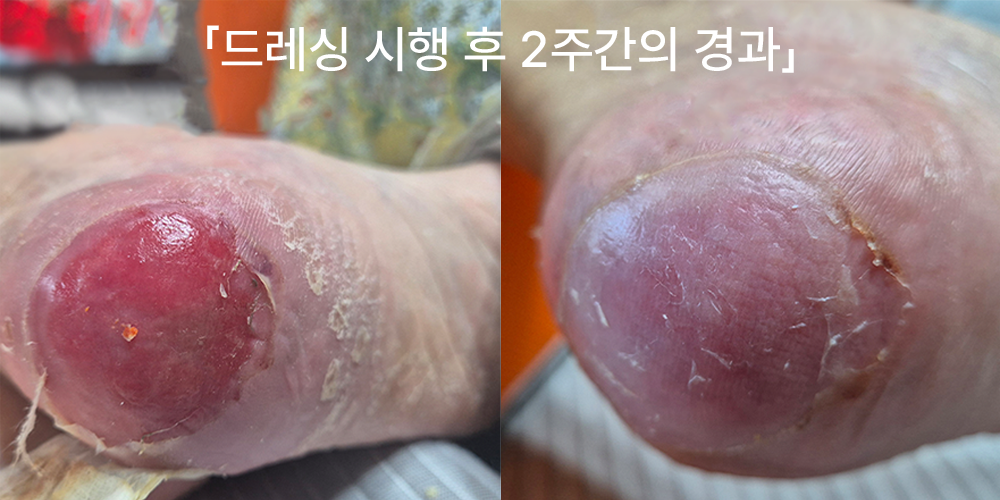
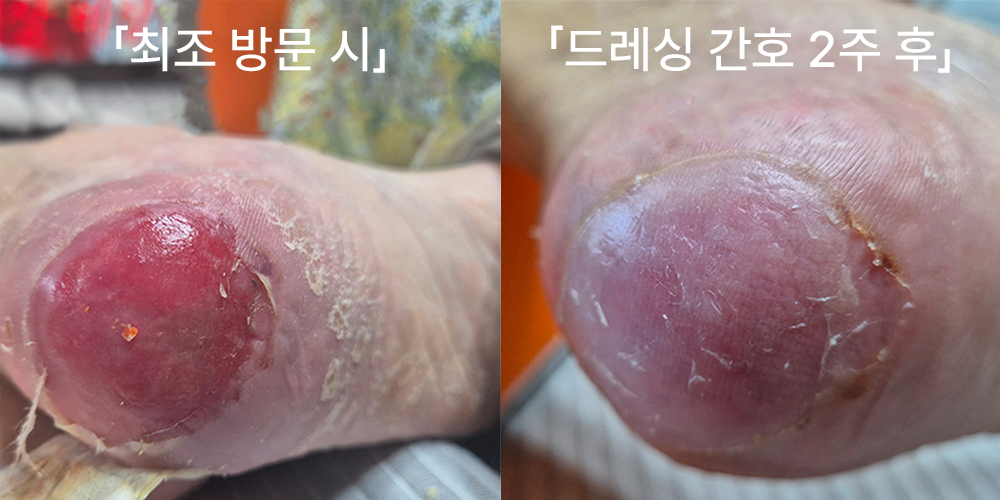
Revise copy across about/case/guide/index/service for tone and accuracy
Softens overclaiming phrases like "전문 간호사" and "단계별 전문" to
wording consistent with 방문간호지시서 기반 서비스 (e.g. "상태에 따른",
"지시서에 따른"), and aligns 환자→어르신/보호자 terminology. Also
updates the two 간호사례 photos (c1.png, c1-1.png).

Changed region(s): [[0.093, 0.03, 0.961, 0.15]]

diff --git a/service.html b/service.html
@@ -83,7 +83,7 @@
               <div class="stage-circle stage-2">
                 <h4>2단계</h4>
               </div>
-              <p>피부 표층 손상 또는 수포가 생긴 상태. 습윤 환경 유지 드레싱으로 상처 관리를 보조합니다.</p>
+              <p>피부 표층 손상 또는 수포가 생긴 상태. 습윤 환경을 유지하는 드레싱으로 상처를 관리합니다.</p>
               <ul class="stage-care-list">
                 <li>습윤 드레싱 교환</li>
                 <li>상처 세척 및 관찰</li>
@@ -173,7 +173,7 @@
           <div class="rehab-head reveal">
             <span class="svc-detail-tag">재활간호</span>
             <h2>가정에서 이어가는 재활 관리</h2>
-            <p>입원 치료 후 가정으로 돌아온 어르신의 재활 과정을 간호사가 지속적으로 보조합니다. 관절 구축 예방과 신체 기능 유지를 위한 체계적인 프로그램을 제공합니다.</p>
+            <p>입원 치료 후 가정으로 돌아온 어르신의 재활 과정을 간호사가 지속적으로 살피고 필요한 재활간호를 제공합니다. 관절 구축 예방과 신체 기능 유지를 위한 체계적인 프로그램을 제공합니다.</p>
           </div>
           <div class="rehab-checklist reveal">
             <h3>재활간호 서비스 항목</h3>
@@ -181,7 +181,7 @@
               <ul class="checklist">
                 <li>
                   <svg width="18" height="18" viewBox="0 0 24 24" fill="none" stroke="currentColor" stroke-width="2.5" stroke-linecap="round" stroke-linejoin="round" aria-hidden="true"><polyline points="20 6 9 17 4 12"/></svg>
-                  수동적·능동적 관절 운동 보조
+                  수동적·능동적 관절 운동
                 </li>
                 <li>
                   <svg width="18" height="18" viewBox="0 0 24 24" fill="none" stroke="currentColor" stroke-width="2.5" stroke-linecap="round" stroke-linejoin="round" aria-hidden="true"><polyline points="20 6 9 17 4 12"/></svg>
@@ -189,7 +189,7 @@
                 </li>
                 <li>
                   <svg width="18" height="18" viewBox="0 0 24 24" fill="none" stroke="currentColor" stroke-width="2.5" stroke-linecap="round" stroke-linejoin="round" aria-hidden="true"><polyline points="20 6 9 17 4 12"/></svg>
-                  보행 훈련 보조
+                  보행 상태 확인 및 훈련
                 </li>
                 <li>
                   <svg width="18" height="18" viewBox="0 0 24 24" fill="none" stroke="currentColor" stroke-width="2.5" stroke-linecap="round" stroke-linejoin="round" aria-hidden="true"><polyline points="20 6 9 17 4 12"/></svg>
@@ -203,7 +203,7 @@
                 </li>
                 <li>
                   <svg width="18" height="18" viewBox="0 0 24 24" fill="none" stroke="currentColor" stroke-width="2.5" stroke-linecap="round" stroke-linejoin="round" aria-hidden="true"><polyline points="20 6 9 17 4 12"/></svg>
-                  일상생활 동작 훈련 보조
+                  일상생활 동작 유지·훈련
                 </li>
                 <li>
                   <svg width="18" height="18" viewBox="0 0 24 24" fill="none" stroke="currentColor" stroke-width="2.5" stroke-linecap="round" stroke-linejoin="round" aria-hidden="true"><polyline points="20 6 9 17 4 12"/></svg>
@@ -235,11 +235,11 @@
           <div class="tube-care-text reveal">
             <span class="svc-detail-tag">튜브 관리</span>
             <h2>감염과 불편함을 줄이는 안전한 튜브 관리를 제공합니다</h2>
-            <p>경관영양튜브, 도뇨관, 기관절개관 등 각종 튜브의 상태를 꼼꼼히 점검하고 필요 시 소독과 교환을 보조합니다. 보호자가 일상에서 안정적으로 관리할 수 있도록 교육과 설명도 함께 제공합니다.</p>
+            <p>경관영양튜브, 도뇨관, 기관절개관 등 각종 튜브의 상태를 꼼꼼히 점검하고 방문간호지시서에 따라 필요한 소독과 관리를 시행합니다. 보호자가 일상에서 안정적으로 관리할 수 있도록 교육과 설명도 함께 제공합니다.</p>
             <ul class="tube-care-list">
               <li>튜브 고정 상태 및 누수 확인</li>
               <li>피부 상태 및 감염 징후 점검</li>
-              <li>튜브 세척·교환 보조</li>
+              <li>지시서에 따른 튜브 관리</li>
               <li>보호자 대상 일상 관리 교육</li>
             </ul>
             <p class="tube-care-notice"><em>모든 처치는 간호사가 수급자에게 발행된 의사의 방문간호지시서에 따라 이루어집니다</em></p>
@@ -255,7 +255,7 @@
             </article>
             <article class="tube-card reveal">
               <h3>기관절개관</h3>
-              <p>기도 확보 상태를 확인하고 분비물 관리와 피부 보전을 보조합니다.</p>
+              <p>기도 확보 상태를 확인하고 분비물과 주변 피부 상태를 관찰하고 필요한 관리를 시행합니다.</p>
             </article>
           </div>
           <div class="tube-care-guide-row reveal">

diff --git a/guide.html b/guide.html
@@ -90,7 +90,7 @@
           <div class="guide-detail-head reveal">
             <span class="guide-detail-eyebrow">방문간호란?</span>
             <h2 class="guide-detail-title">숙련된 간호사가 직접 찾아가는 방문간호</h2>
-            <p class="guide-detail-intro">간호사가 가정을 방문하여 지속적인 건강관리와 필요한 간호를 제공합니다. 의사의 방문간호지시서에 따라 전문 간호사가 가정을 방문해 필요한 간호와 건강관리 서비스를 제공합니다.</p>
+            <p class="guide-detail-intro">간호사가 가정을 방문하여 지속적인 건강관리와 필요한 간호를 제공합니다. 의사의 방문간호지시서에 따라 간호사가 가정을 방문해 필요한 간호와 건강관리 서비스를 제공합니다.</p>
           </div>
         </div>
       </div>
@@ -98,7 +98,7 @@
       <div class="guide-block bg-tint">
         <div class="container-wide">
           <span class="guide-section-eyebrow">Home Nursing</span>
-          <h3 class="guide-section-title reveal">가정에서 받는 전문 간호 서비스</h3>
+          <h3 class="guide-section-title reveal">가정에서 받는 방문간호 서비스</h3>
           <div class="guide-nursing-list" data-reveal-group>
             <div class="guide-nursing-item reveal">
               <span class="guide-nursing-num">01</span>
@@ -106,7 +106,7 @@
             </div>
             <div class="guide-nursing-item reveal">
               <span class="guide-nursing-num">02</span>
-              <div><h4>전문 간호 처치</h4><p>욕창·상처 드레싱과 투약 관리 등 지시서에 따른 간호 처치를 제공합니다.</p></div>
+              <div><h4>방문간호지시서에 따른 간호</h4><p>욕창·상처 드레싱과 투약 관리 등 지시서에 따른 간호 처치를 제공합니다.</p></div>
             </div>
             <div class="guide-nursing-item reveal">
               <span class="guide-nursing-num">03</span>
@@ -230,15 +230,15 @@
                 <div class="guide-target-group-items">
                   <div class="guide-target-group-item">
                     <h4>욕창·상처 등 지속적 드레싱이 필요하신 분</h4>
-                    <p>단계별 전문 상처 관리 서비스 제공</p>
+                    <p>상태에 따른 상처 관리 및 드레싱 제공</p>
                   </div>
                   <div class="guide-target-group-item">
                     <h4>당뇨·고혈압 등 만성질환 관리가 필요하신 분</h4>
-                    <p>정기적 활력징후 관찰과 관리 보조</p>
+                    <p>정기적인 활력징후 확인과 건강 상태 관찰</p>
                   </div>
                   <div class="guide-target-group-item">
                     <h4>경관영양튜브·도뇨관 등 튜브 관리가 필요하신 분</h4>
-                    <p>전문 간호사의 안전한 튜브 관리</p>
+                    <p>방문간호지시서에 따른 튜브 상태 확인 및 관리</p>
                   </div>
                 </div>
               </section>

diff --git a/about.html b/about.html
@@ -25,7 +25,7 @@
       <div class="page-header-content">
         <h1>센터소개</h1>
         <p class="page-header-desc">
-          <strong>백세인생 방문간호센터의 운영 방향과 전문적인 관리 체계를 소개합니다.</strong>
+          <strong>백세인생 방문간호센터의 운영 방향과 체계적인 건강관리 시스템을 소개합니다.</strong>
           <span>센터가 추구하는 방문간호의 가치와 서비스 운영 기준, 체계적인 건강관리 방향을 확인하실 수 있습니다.</span>
         </p>
       </div>
@@ -107,7 +107,7 @@
         <div class="compare-wrap reveal">
           <p class="section-tag">서비스 비교</p>
           <h2>방문간호와 방문요양의 차이</h2>
-          <p class="section-sub">방문간호는 전문 간호사가 직접 방문하여 건강 상태를 관찰하고 전문적인 간호를 제공합니다.</p>
+          <p class="section-sub">방문간호는 간호사가 직접 가정을 방문하여 건강 상태를 관찰하고 필요한 간호를 제공합니다.</p>
           <div class="compare-table-wrap">
             <table class="compare-table" aria-label="방문요양 vs 방문간호 비교표">
               <colgroup>
@@ -137,7 +137,7 @@
                 </tr>
                 <tr>
                   <th scope="row">상처·욕창 관리</th>
-                  <td class="highlight">단계별 전문 드레싱 관리</td>
+                  <td class="highlight">상태에 따른 드레싱 관리</td>
                   <td>생활지원 중심 (해당 없음)</td>
                 </tr>
                 <tr>

diff --git a/case.html b/case.html
@@ -436,7 +436,7 @@
               </div>
               <div class="case-section">
                 <h4>현재 관리 상황</h4>
-                <p>환자와 보호자가 의료진의 설명을 충분히 이해하지 못해 불안해하는 상황에서, 방문간호사는 시간을 내어 병원 진료에 동행했습니다. 함께 의료진의 설명을 듣고, 진료 후에는 이해하기 어려웠던 내용과 오해가 있었던 부분을 환자와 가족의 눈높이에 맞춰 다시 설명했습니다. 이러한 과정은 환자와 가족이 질환과 치료 방향을 보다 정확히 이해하고, 의료진의 치료 계획을 신뢰하며 꾸준히 이행할 수 있도록 돕는 중요한 연결고리가 되었습니다.</p>
+                <p>어르신과 보호자가 의료진의 설명을 충분히 이해하지 못해 불안해하는 상황에서, 방문간호사는 시간을 내어 병원 진료에 동행했습니다. 함께 의료진의 설명을 듣고, 진료 후에는 이해하기 어려웠던 내용과 오해가 있었던 부분을 어르신과 가족의 눈높이에 맞춰 다시 설명했습니다. 이러한 과정은 환자와 가족이 질환과 치료 방향을 보다 정확히 이해하고, 의료진의 치료 계획을 신뢰하며 꾸준히 이행할 수 있도록 돕는 중요한 연결고리가 되었습니다.</p>
               </div>
             </div>
             <p class="case-takeaway">진료실의 몇 분으로는 다 전하기 어려운 질병에 대한 이해를, 방문간호사는 어르신의 거실에서 어르신과 가족의 말로 이어갑니다.</p>

diff --git a/index.html b/index.html
@@ -120,14 +120,14 @@
             <a href="about.html" class="home-choice-link">
               <span>
                 <strong>센터소개</strong>
-                <em>종합병원 임상 경험을 갖춘 전문 간호사와 센터를 소개합니다</em>
+                <em>종합병원 등 다양한 임상현장에서 경험을 쌓은 간호인력과 센터를 소개합니다</em>
               </span>
               <svg width="16" height="16" viewBox="0 0 24 24" fill="none" stroke="currentColor" stroke-width="2.5" stroke-linecap="round" stroke-linejoin="round" aria-hidden="true"><polyline points="9 18 15 12 9 6"/></svg>
             </a>
             <a href="service.html" class="home-choice-link">
               <span>
                 <strong>방문간호서비스</strong>
-                <em>욕창관리, 만성질환 관리 등 7가지 전문 서비스를 안내합니다</em>
+                <em>욕창관리, 만성질환 관리 등 7가지 주요 방문간호 서비스를 안내합니다</em>
               </span>
               <svg width="16" height="16" viewBox="0 0 24 24" fill="none" stroke="currentColor" stroke-width="2.5" stroke-linecap="round" stroke-linejoin="round" aria-hidden="true"><polyline points="9 18 15 12 9 6"/></svg>
             </a>
